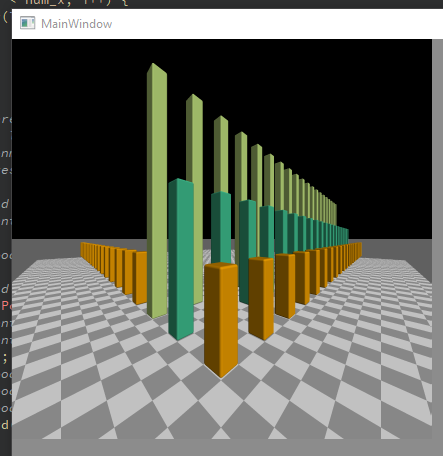
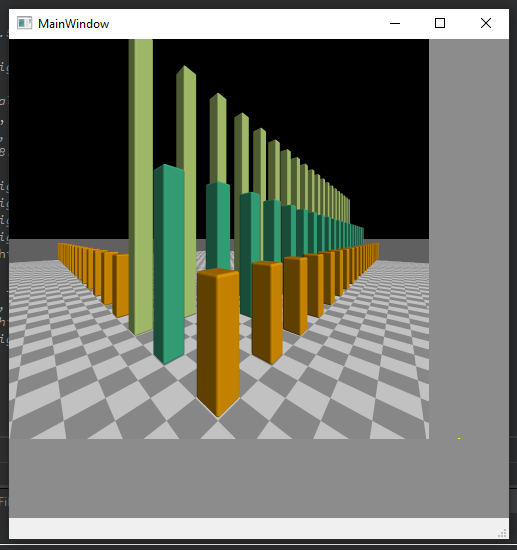
new images

diff --git a/qt/raytracer_practicalview/World/World.cpp b/qt/raytracer_practicalview/World/World.cpp
@@ -306,7 +306,7 @@ void World::set_material(GeometricObject* geo, RGBColor color) {
     geo->set_material(matte_ptr);
 }
 
-void World::add_sphere_helper(RGBColor color, Point3D pt, int radius) {
+void World::add_sphere_helper(RGBColor color, Point3D pt, double radius) {
     Sphere*	s = new Sphere(pt, radius);
     set_material(s, color);
     add_object(s);
@@ -318,6 +318,10 @@ void World::add_bb_helper(RGBColor color, Point3D p0, Point3D p1, double r) {
     BeveledBox* bb = new BeveledBox(p0, p1, r);
     set_material(bb, color);
     add_object(bb);
+}
+
+void World::add_bb_helper(RGBColor color, Point3D p0, double dx, double dy, double dz, double r) {
+    World::add_bb_helper(color, p0, Point3D(p0.x + dx, p0.y + dy, p0.z + dz), r);
 }
 
 void World::add_rect_helper(RGBColor color, Point3D pt, Vector3D pt1, Vector3D pt2,
@@ -509,6 +513,10 @@ void World::build_city(void) {
 #define HEIGHT 4
 
 void World::build_practical() {
+    // init_environment(Point3D(-3.5, -3.5, 5), Point3D(2, 2, 5), 90.0, Point3D(0, 0, 1)); // a
+    // init_environment(Point3D(-4, -4, 8), Point3D(2, 2, 6), 80.0, Point3D(0, 0, 1)); // b
+    // init_environment(Point3D(-18.5, 5, 9), Point3D(2, 5, 9), 200.0, Point3D(0, 0, 1)); // c
+
     int num_x = 20;
     int num_y = num_x - 3;
     int spacing = 3;
@@ -537,6 +545,15 @@ void World::build_practical() {
     }
 }
 
+void build_box_sphere_triangle(World * w) {
+    double height = 3.0;
+    double radius = height / 4;
+    w->add_bb_helper(darkOrange, Point3D(0), 1, 1, height);
+    w->add_sphere_helper(lightGreen, Point3D(radius / 4, 1.85, height - radius), radius);
+    w->add_triangle_helper(greenCyan, Point3D(-0.75,  2.3, 0.1),
+                                      Point3D( 0   , -0.4, 1.5),
+                                      Point3D( 2   ,  2  , 2.5));
+}
 
 void World::build() {
     //  to build spheres...
@@ -550,14 +567,20 @@ void World::build() {
     // build_checkerboard(white, lightGrey, -7, -7, 7, 7, -10);
 
     //  OR... to build the practical environment
-    // init_environment(Point3D(-4, -4, 5), Point3D(2, 2, 5), 80.0, Point3D(0, 0, 1)); // a
+    // init_environment(Point3D(-3.5, -3.5, 5), Point3D(2, 2, 5), 90.0, Point3D(0, 0, 1)); // a
     // init_environment(Point3D(-4, -4, 8), Point3D(2, 2, 6), 80.0, Point3D(0, 0, 1)); // b
-    init_environment(Point3D(-6, 5, 9), Point3D(2, 5, 9), 80.0, Point3D(0, 0, 1)); // c
-    build_practical();
+    // init_environment(Point3D(-18.5, 5, 9), Point3D(2, 5, 9), 200.0, Point3D(0, 0, 1)); // c
+    // build_practical();
+    // build_checkerboard(white, lightGrey, -2, -2, 2, 2, 0);      // small
     // build_checkerboard(white, lightGrey, -4, -4, 4, 4, 0);      // fastest
     // build_checkerboard(white, lightGrey, -4, -4, 14, 14, 0);    // fast
     // build_checkerboard(white, lightGrey, -4, -4, 26, 26, 0);    // slower
-    build_checkerboard(white, lightGrey, -8, -8, 52, 52, 0);    // very slow
+    // build_checkerboard(white, lightGrey, -8, -8, 52, 52, 0);    // very slow
+
+    // init_environment(Point3D(1, 1, 6), Point3D(2, 1, -6), 130.0, Point3D(0, 0, 1)); // top
+    init_environment(Point3D(-4, 1, 1.5), Point3D(1, 1, 1.5), 120.0, Point3D(0, 0, 1)); // a
+    build_box_sphere_triangle(this);
+    // build_checkerboard(white, lightGrey, -2, -2, 4, 4, 0);
 }
 
 

diff --git a/qt/raytracer_practicalview/World/World.h b/qt/raytracer_practicalview/World/World.h
@@ -55,20 +55,21 @@ public:
 
     void display_pixel(const int row, const int column, const RGBColor& pixel_color) const;
     ShadeRec hit_objects(const Ray& ray);
-                 // next function ONLY in chapter 3:  bare-bones ray tracing
-//    ShadeRec hit_bare_bones_objects(const Ray& ray);
+    // next function ONLY in chapter 3:  bare-bones ray tracing
+    //    ShadeRec hit_bare_bones_objects(const Ray& ray);
 
-private:
+    //private:
     void delete_objects();
     void delete_lights();
-    void add_sphere_helper(RGBColor color, Point3D pt, int radius);
+    void add_sphere_helper(RGBColor color, Point3D pt, double radius);
     void add_bb_helper(RGBColor color, Point3D pt1, Point3D pt2, double r=0.1);
+    void add_bb_helper(RGBColor color, Point3D pt1, double dx=1, double dy=1, double dz=1, double r=0.1);
     void add_rect_helper(RGBColor color, Point3D pt, Vector3D pt1, Vector3D pt2,
                          Normal n);
     void add_triangle_helper(RGBColor color, Point3D pt0, Point3D pt1, Point3D pt2);
 
     void build_spheres(void);
-//    void init_cameras();
+    //    void init_cameras();
     void init_cameras(Point3D eye, Point3D lookat, double view_distance, Point3D up);
     void init_viewplane(void);
     void init_light(void);
